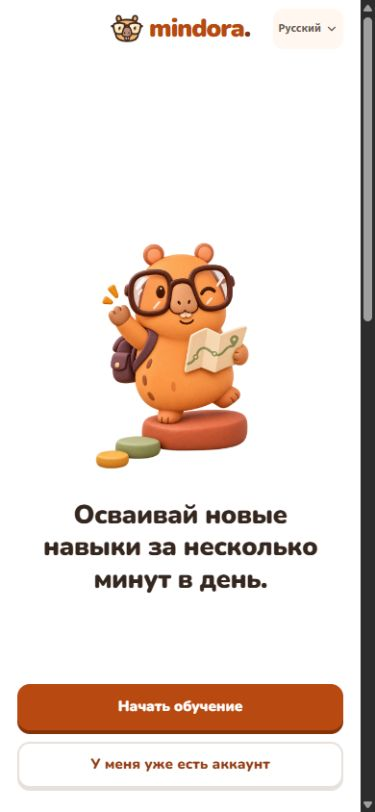
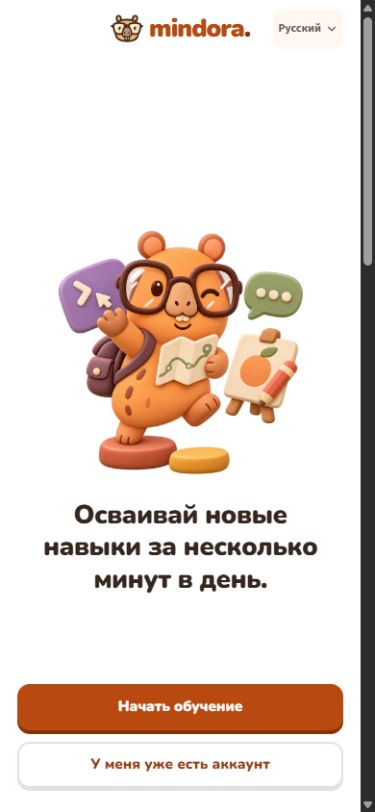
Illustrate the Mindora learning path on the welcome page

Changed region(s): [[0.1467, 0.2771, 0.8213, 0.585], [0.968, 0.3079, 0.9973, 0.4002]]

diff --git a/ui/landing.js b/ui/landing.js
@@ -25,9 +25,9 @@ export function landingView() {
   const method = t('How it works', 'Как это работает', 'Қалай жұмыс істейді');
   const signIn = t('I already have an account', 'У меня уже есть аккаунт', 'Менде аккаунт бар');
   const steps = [
-    ['flag', t('Choose a goal', 'Выбери цель', 'Мақсатыңды таңда'), t('Tell Mindora what you want to be able to do.', 'Расскажи Mindora, что хочешь научиться делать.', 'Mindora-ға не істеуді үйренгің келетінін айт.')],
-    ['clock', t('Find your pace', 'Выбери темп', 'Қарқыныңды таңда'), t('Make room for a 5, 10 or 20 minute lesson.', 'Выдели на занятие 5, 10 или 20 минут.', 'Сабаққа 5, 10 немесе 20 минут бөл.')],
-    ['target', t('Try it yourself', 'Попробуй сам', 'Өзің байқап көр'), t('See an example, do an exercise, and build something of your own.', 'Разбери пример, выполни упражнение и сделай что-то своё.', 'Мысалды талда, жаттығу орында және өз жұмысыңды жаса.')],
+    ['book', t('Study an example', 'Разбери пример', 'Мысалды талда'), t('See how to use the idea in a real task.', 'Посмотри, как применить идею в реальной задаче.', 'Идеяны нақты тапсырмада қалай қолдануға болатынын көр.')],
+    ['target', t('Check your understanding', 'Проверь себя', 'Өзіңді тексер'), t('Try a short exercise and get feedback on your answer.', 'Реши короткое упражнение и получи разбор ответа.', 'Қысқа жаттығу орындап, жауабыңа кері байланыс ал.')],
+    ['edit', t('Make it your own', 'Сделай что-то своё', 'Өз жұмысыңды жаса'), t('Design a poster, write a short program, or try a different project.', 'Сделай постер, напиши короткую программу или попробуй другой проект.', 'Постер жаса, шағын бағдарлама жаз немесе басқа жобаны байқап көр.')],
   ];
   return `<div class="mindora-landing" data-guided-step="0">
     <header class="landing-header">
@@ -38,7 +38,7 @@ export function landingView() {
     </header>
     <section class="landing-container landing-hero" aria-labelledby="landing-title">
       <div class="landing-hero-art">
-        <img class="landing-mascot" src="${hero}" width="720" height="900" alt="${t('Mino the capybara waves and holds a map', 'Капибара Мино машет лапой и держит карту', 'Капибара Мино қол бұлғап, карта ұстап тұр')}" fetchpriority="high">
+        <img class="landing-mascot" src="${hero}" width="880" height="880" alt="${t('Mino the capybara holds a map surrounded by coding, drawing, and conversation tools', 'Мино держит карту, вокруг него символы кода, рисования и общения', 'Мино карта ұстап тұр, айналасында код, сурет және әңгіме белгілері бар')}" fetchpriority="high">
       </div>
       <div class="landing-hero-copy">
         <h1 id="landing-title">${t('Learn a new skill in a few minutes a day.', 'Осваивай новые навыки за несколько минут в день.', 'Күніне бірнеше минутта жаңа дағды үйрен.')}</h1>
@@ -51,10 +51,19 @@ export function landingView() {
         <ul>${topics().map(([name, label, action]) => `<li><button type="button" ${action}><img src="${cover(name)}" alt="" width="40" height="40" loading="lazy"><span>${label}</span></button></li>`).join('')}</ul>
       </div>
     </section>
-    <section class="landing-container landing-method" id="landing-method" aria-labelledby="landing-method-title">
+    <section class="landing-route" id="landing-method" aria-labelledby="landing-route-title">
+      <div class="landing-container landing-route-inner">
+        <div class="landing-route-copy">
+          <h2 id="landing-route-title">${t('A path that fits your day.', 'Учебный путь в твоём темпе.', 'Өз қарқыныңа сай оқу жолы.')}</h2>
+          <p>${t('Tell Mindora what you want to learn. Get a path from your first lesson to a project you can finish on your own.', 'Расскажи, чему хочешь научиться. Mindora построит путь от первого урока до проекта, который ты сделаешь сам.', 'Не үйренгің келетінін айт. Mindora алғашқы сабақтан өзің аяқтайтын жобаға дейінгі оқу жолын құрады.')}</p>
+          <ul class="landing-pace-list" aria-label="${t('Lesson lengths', 'Длительность занятий', 'Сабақ ұзақтығы')}">${[5, 10, 20].map(minutes => `<li>${icon('clock', 15)} ${t(`${minutes} min`, `${minutes} мин`, `${minutes} мин`)}</li>`).join('')}</ul>
+        </div>
+        <img class="landing-route-art" src="${media('landing/mino-learning-path.webp')}" width="900" height="600" alt="${t('Mino on a path with a lesson, a check mark and a trophy', 'Мино на пути со значками урока, галочкой и кубком', 'Мино сабақ, белгі және кубок бейнеленген оқу жолында')}" loading="lazy" decoding="async">
+      </div>
+    </section>
+    <section class="landing-container landing-method" id="landing-practice" aria-labelledby="landing-method-title">
       <div class="landing-method-copy">
-        <h2 id="landing-method-title">${t('A little practice every day.', 'Немного практики каждый день.', 'Күн сайын аздап жаттық.')}</h2>
-        <p>${t('Pick a skill and Mindora will build a path with short lessons, examples and practice.', 'Выбери навык. Mindora соберёт путь из коротких уроков, примеров и практики.', 'Дағдыны таңда. Mindora қысқа сабақтар, мысалдар мен жаттығулардан оқу жолын құрады.')}</p>
+        <h2 id="landing-method-title">${t('Put each lesson to work.', 'Применяй знания сразу.', 'Үйренгеніңді бірден қолдан.')}</h2>
         <ol>${steps.map(([symbol, title, text]) => `<li><span class="landing-method-icon">${icon(symbol, 22)}</span><div><h3>${title}</h3><p>${text}</p></div></li>`).join('')}</ol>
       </div>
       <img class="landing-workshop" src="${media('landing/mino-workshop.webp')}" width="780" height="520" alt="${t('Mino draws a poster at a desk with a laptop and books', 'Мино рисует постер за столом с ноутбуком и книгами', 'Мино ноутбук пен кітаптар тұрған үстелде постер салып отыр')}" loading="lazy" decoding="async">

diff --git a/ui/landing.css b/ui/landing.css
@@ -32,7 +32,7 @@ body.quiet-shell.is-guided .app-shell:has(.mindora-landing) { max-width: none; }
 .landing-hero-art { display: grid; place-items: center; min-width: 0; }
 .landing-mascot {
   display: block;
-  width: min(100%, 340px, 47svh);
+  width: min(100%, 440px, 53svh);
   height: auto;
   object-fit: contain;
   transform-origin: 50% 88%;
@@ -104,6 +104,31 @@ body.quiet-shell.is-guided .app-shell:has(.mindora-landing) { max-width: none; }
 .landing-topics button:hover { background: #fff4eb; color: var(--landing-orange); }
 .landing-topics img { display: block; width: 34px; height: 34px; border-radius: 7px; flex: none; }
 
+.landing-route { background: #f4f8ee; }
+.landing-route-inner {
+  display: grid;
+  grid-template-columns: minmax(0, 1.16fr) minmax(0, .84fr);
+  align-items: center;
+  gap: clamp(24px, 5vw, 66px);
+  padding-block: 67px;
+}
+.landing-route-copy { grid-area: 1 / 2; }
+.landing-route-art { grid-area: 1 / 1; width: 100%; height: auto; }
+.landing-route h2 { max-width: 14ch; color: #385338; }
+.landing-route p { max-width: 37ch; margin: 18px 0; color: var(--landing-muted); font-size: 18px; line-height: 1.45; }
+.landing-pace-list { display: flex; flex-wrap: wrap; gap: 8px; margin: 0; padding: 0; list-style: none; }
+.landing-pace-list > li {
+  display: inline-flex;
+  align-items: center;
+  gap: 6px;
+  padding: 5px 10px;
+  border-radius: 8px;
+  background: #e5eedc;
+  color: #385338;
+  font-size: 15px;
+  font-weight: 750;
+  white-space: nowrap;
+}
 .landing-method {
   display: grid;
   grid-template-columns: minmax(0, .92fr) minmax(0, 1.08fr);
@@ -111,14 +136,13 @@ body.quiet-shell.is-guided .app-shell:has(.mindora-landing) { max-width: none; }
   gap: clamp(24px, 5vw, 66px);
   padding-block: 95px;
 }
-.landing-method h2, .landing-finish h2 {
+.landing-route h2, .landing-method h2, .landing-finish h2 {
   font-size: clamp(30px, 4.4vw, 52px);
   font-weight: 950;
   letter-spacing: -.035em;
   line-height: 1.05;
 }
 .landing-method h2 { color: var(--landing-orange); max-width: 13ch; }
-.landing-method-copy > p { color: var(--landing-muted); margin-top: 16px; max-width: 38ch; font-size: 18px; line-height: 1.45; }
 .landing-method ol { margin: 21px 0 0; padding: 0; list-style: none; }
 .landing-method li { display: grid; grid-template-columns: 40px minmax(0, 1fr); align-items: start; gap: 13px; margin-top: 12px; }
 .landing-method-icon { display: grid; place-items: center; width: 40px; height: 40px; border-radius: 11px; color: #993c12; background: #fff0df; }
@@ -156,12 +180,15 @@ body.quiet-shell.is-guided .app-shell:has(.mindora-landing) { max-width: none; }
     min-height: max(555px, calc(100svh - 60px));
     padding-block: 24px 25px;
   }
-  .landing-mascot { width: min(60%, 220px, 32svh); }
+  .landing-mascot { width: min(78%, 262px, 34svh); }
   .landing-hero-copy h1 { max-width: 21ch; font-size: clamp(26px, 7vw, 33px); }
   .landing-actions { margin-top: clamp(22px, 11.5svh, 92px); width: 100%; max-width: 380px; gap: 12px; }
   .landing-topics-inner { width: 100%; padding-block: 9px; }
   .landing-topics ul { padding-inline: 18px; scroll-padding-inline: 18px; }
   .landing-topics button { font-size: 13px; }
+  .landing-route-inner { grid-template-columns: minmax(0, 1fr); gap: 23px; padding-block: 48px 35px; }
+  .landing-route-copy, .landing-route-art { grid-area: auto; }
+  .landing-route-art { max-width: 430px; margin-inline: auto; }
   .landing-method { grid-template-columns: minmax(0, 1fr); gap: 25px; padding-block: 54px; }
   .landing-method h2 { max-width: 14ch; }
   .landing-workshop { max-width: 410px; margin-inline: auto; }
@@ -172,6 +199,6 @@ body.quiet-shell.is-guided .app-shell:has(.mindora-landing) { max-width: none; }
 }
 @media (max-height: 660px) and (max-width: 700px) {
   .landing-hero { min-height: 0; gap: 17px; padding-block: 22px 24px; }
-  .landing-mascot { width: min(52%, 180px); }
+  .landing-mascot { width: min(68%, 212px); }
   .landing-actions { margin-top: 22px; }
 }
